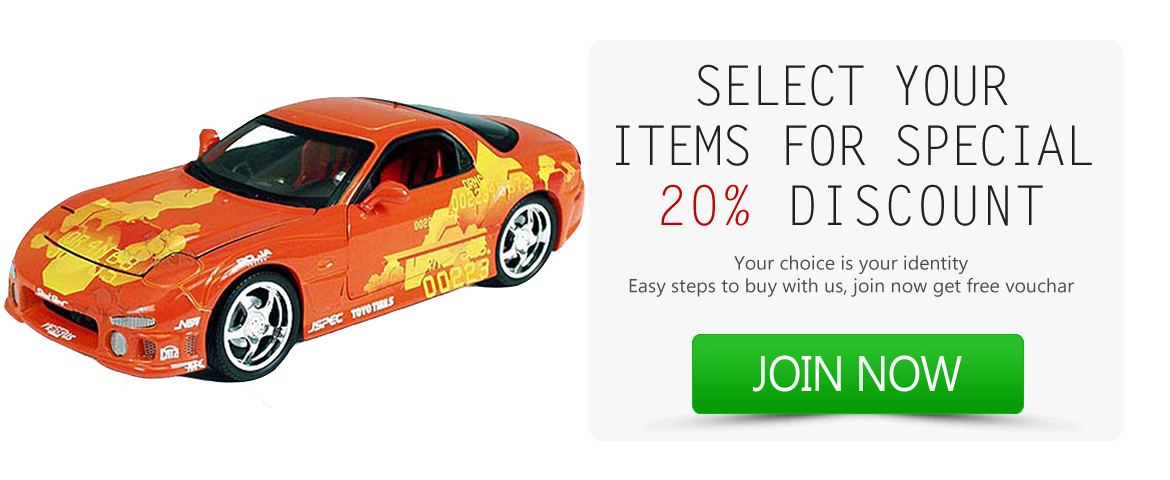
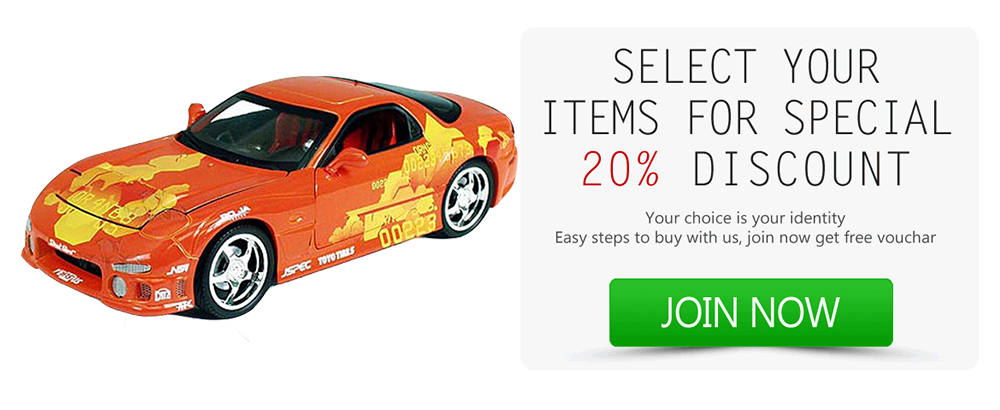
carrosel

Changed region(s): [[0.0, 0.1171, 0.961, 0.8195], [0.589, 0.6732, 0.899, 0.9073], [0.527, 0.4976, 0.93, 0.6146]]

diff --git a/application/views/pages/main.php b/application/views/pages/main.php
@@ -13,7 +13,7 @@
 		  </div>
 		  <div class="item">
 		  <div class="container">
-			<a href="register.html"><img style="width:100%" src="<?= base_url();?>assets/images/carousel/2.png" alt=""/></a>
+			<a href="register.html"><img style="width:100%" src="<?= base_url();?>assets/images/carousel/7.png" alt=""/></a>
 				<div class="carousel-caption">
 				  <h4>Second Thumbnail label</h4>
 				  <p>Cras justo odio, dapibus ac facilisis in, egestas eget quam. Donec id elit non mi porta gravida at eget metus. Nullam id dolor id nibh ultricies vehicula ut id elit.</p>
